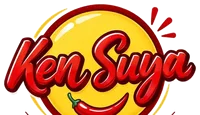
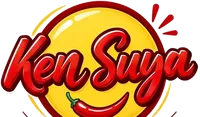
Fix badge crop, add cache-busting, and rename brand to KenSuya
- Re-crop the badge logo from the source art so the full chili
  pepper and circle render without cutting into the tagline text,
  and add a ?v=2 query string so browsers stop serving the old
  cached (and previously mis-cropped) file under the immutable
  asset cache policy.
- Replace "Ken Suya" with "KenSuya" throughout visible copy,
  metadata, structured data, and chat assistant text to match the
  brand's single-word name (asset filenames and the @KenSuya
  handle were already correct and are unchanged).

diff --git a/index.html b/index.html
@@ -5,30 +5,30 @@
 <meta name="viewport" content="width=device-width, initial-scale=1.0" />
 
 <!-- ─── SEO ─── -->
-<title>Ken Suya | Suya Specialists in Birmingham | Order Now</title>
-<meta name="description" content="Ken Suya is Birmingham's suya specialist, serving beef, chicken and lamb suya hand-rolled in our own yaji spice and grilled fresh to order. Party platters, collection and delivery across Birmingham. Call or WhatsApp +44 7960 235758 to order." />
+<title>KenSuya | Suya Specialists in Birmingham | Order Now</title>
+<meta name="description" content="KenSuya is Birmingham's suya specialist, serving beef, chicken and lamb suya hand-rolled in our own yaji spice and grilled fresh to order. Party platters, collection and delivery across Birmingham. Call or WhatsApp +44 7960 235758 to order." />
 <meta name="keywords" content="suya Birmingham, yaji spice, beef suya, chicken suya, lamb suya, suya near me, party platters Birmingham, grilled skewers Birmingham, suya delivery Birmingham, suya catering Birmingham" />
 <meta name="robots" content="index, follow, max-image-preview:large" />
 <meta name="theme-color" content="#FFFFFF" />
-<meta name="author" content="Ken Suya" />
+<meta name="author" content="KenSuya" />
 <link rel="canonical" href="https://www.kensuya.co.uk/" />
 
 <!-- ─── OPEN GRAPH ─── -->
 <meta property="og:type" content="website" />
-<meta property="og:site_name" content="Ken Suya" />
-<meta property="og:title" content="Ken Suya | Suya Specialists in Birmingham | Order Now" />
+<meta property="og:site_name" content="KenSuya" />
+<meta property="og:title" content="KenSuya | Suya Specialists in Birmingham | Order Now" />
 <meta property="og:description" content="Suya that makes your tastebuds dance. Beef, chicken and lamb suya, hand-rolled in our signature yaji spice and grilled fresh to order. Call or WhatsApp +44 7960 235758 for collection or delivery across Birmingham." />
 <meta property="og:url" content="https://www.kensuya.co.uk/" />
 <meta property="og:locale" content="en_GB" />
 <meta property="og:image" content="https://www.kensuya.co.uk/assets/images/og-image.jpg" />
 <meta property="og:image:width" content="1200" />
 <meta property="og:image:height" content="630" />
-<meta property="og:image:alt" content="Ken Suya, suya specialists in Birmingham" />
+<meta property="og:image:alt" content="KenSuya, suya specialists in Birmingham" />
 <meta name="twitter:card" content="summary_large_image" />
-<meta name="twitter:title" content="Ken Suya | Suya Specialists in Birmingham | Order Now" />
+<meta name="twitter:title" content="KenSuya | Suya Specialists in Birmingham | Order Now" />
 <meta name="twitter:description" content="Beef, chicken and lamb suya, hand-rolled in our signature yaji spice and grilled fresh to order. Call or WhatsApp +44 7960 235758 for collection and delivery across Birmingham." />
 <meta name="twitter:image" content="https://www.kensuya.co.uk/assets/images/og-image.jpg" />
-<meta name="twitter:image:alt" content="Ken Suya, suya specialists in Birmingham" />
+<meta name="twitter:image:alt" content="KenSuya, suya specialists in Birmingham" />
 
 <!-- ─── FAVICON ─── -->
 <link rel="icon" type="image/jpeg" sizes="64x64" href="assets/images/favicon-64.jpg" />
@@ -40,7 +40,7 @@
 {
   "@context": "https://schema.org",
   "@type": "FoodEstablishment",
-  "name": "Ken Suya",
+  "name": "KenSuya",
   "slogan": "Cow-towing to your tastes",
   "servesCuisine": ["Grill", "Skewers"],
   "priceRange": "££",
@@ -96,7 +96,7 @@
 {
   "@context": "https://schema.org",
   "@type": "Menu",
-  "name": "Ken Suya Menu",
+  "name": "KenSuya Menu",
   "inLanguage": "en-GB",
   "hasMenuSection": [
     {
@@ -154,12 +154,12 @@
   "mainEntity": [
     {
       "@type": "Question",
-      "name": "How do I order suya from Ken Suya?",
+      "name": "How do I order suya from KenSuya?",
       "acceptedAnswer": { "@type": "Answer", "text": "Message us on WhatsApp or DM @KenSuya on Instagram with what you'd like. We'll confirm price, timing, and whether it's collection or delivery." }
     },
     {
       "@type": "Question",
-      "name": "Does Ken Suya deliver in Birmingham?",
+      "name": "Does KenSuya deliver in Birmingham?",
       "acceptedAnswer": { "@type": "Answer", "text": "Yes, we deliver locally across Birmingham. Let us know your postcode when you order and we'll confirm if you're in range." }
     },
     {
@@ -169,12 +169,12 @@
     },
     {
       "@type": "Question",
-      "name": "Does Ken Suya cater for parties and events?",
+      "name": "Does KenSuya cater for parties and events?",
       "acceptedAnswer": { "@type": "Answer", "text": "Yes, message us the headcount and date on WhatsApp and we'll put together a spread of skewers and sides for your event." }
     },
     {
       "@type": "Question",
-      "name": "Is Ken Suya's meat halal?",
+      "name": "Is KenSuya's meat halal?",
       "acceptedAnswer": { "@type": "Answer", "text": "Message us on WhatsApp or Instagram before ordering and we'll happily confirm sourcing for you." }
     }
   ]
@@ -191,7 +191,7 @@
 
 <a class="skip-link" href="#main">Skip to content</a>
 
-<!-- ═══════════════ SVG SPRITE (functional icons only; the real Ken Suya logo is an image, used unaltered) ═══════════════ -->
+<!-- ═══════════════ SVG SPRITE (functional icons only; the real KenSuya logo is an image, used unaltered) ═══════════════ -->
 <svg width="0" height="0" style="position:absolute" aria-hidden="true">
   <defs>
     <symbol id="icon-flame" viewBox="0 0 24 24">
@@ -232,9 +232,9 @@
 <header class="nav" id="site-nav">
   <div class="scroll-progress" aria-hidden="true"><span id="scroll-progress-bar"></span></div>
   <div class="container nav-inner">
-    <a href="#hero" class="nav-brand" aria-label="Ken Suya Home">
-      <img src="assets/images/ken-suya-badge.webp" alt="Ken Suya" class="brand-mark-img" onerror="this.style.display='none'; this.nextElementSibling.style.display='inline-flex'" />
-      <span class="brand-mark" style="display:none;"><svg width="20" height="20" class="icon-flicker"><use href="#icon-flame"/></svg>Ken Suya</span>
+    <a href="#hero" class="nav-brand" aria-label="KenSuya Home">
+      <img src="assets/images/ken-suya-badge.webp?v=2" alt="KenSuya" class="brand-mark-img" onerror="this.style.display='none'; this.nextElementSibling.style.display='inline-flex'" />
+      <span class="brand-mark" style="display:none;"><svg width="20" height="20" class="icon-flicker"><use href="#icon-flame"/></svg>KenSuya</span>
       <span class="nav-tagline">Cow-towing to your tastes</span>
     </a>
 
@@ -270,8 +270,8 @@
   <div class="mobile-menu-footer">
     <a href="https://wa.me/447960235758" target="_blank" rel="noopener noreferrer" class="btn btn-gold btn-lg">Order Now</a>
     <div class="mobile-social">
-      <a href="https://instagram.com/KenSuya" target="_blank" rel="noopener noreferrer" class="social-icon" aria-label="Ken Suya on Instagram"><svg width="18" height="18"><use href="#icon-insta"/></svg></a>
-      <a href="https://wa.me/447960235758" target="_blank" rel="noopener noreferrer" class="social-icon social-icon--wa" aria-label="Message Ken Suya on WhatsApp"><svg width="18" height="18"><use href="#icon-whatsapp"/></svg></a>
+      <a href="https://instagram.com/KenSuya" target="_blank" rel="noopener noreferrer" class="social-icon" aria-label="KenSuya on Instagram"><svg width="18" height="18"><use href="#icon-insta"/></svg></a>
+      <a href="https://wa.me/447960235758" target="_blank" rel="noopener noreferrer" class="social-icon social-icon--wa" aria-label="Message KenSuya on WhatsApp"><svg width="18" height="18"><use href="#icon-whatsapp"/></svg></a>
     </div>
   </div>
 </div>
@@ -310,10 +310,10 @@
       <div class="hero-visual" aria-hidden="true">
         <div class="hero-flame-glow"></div>
         <div class="hero-badge-plate">
-          <img src="assets/images/ken-suya-logo.webp" alt="Ken Suya logo, a red and gold badge with a chili pepper" class="brand-badge-img" width="900" height="699" onerror="this.style.display='none'; this.nextElementSibling.style.display='flex'" />
+          <img src="assets/images/ken-suya-logo.webp" alt="KenSuya logo, a red and gold badge with a chili pepper" class="brand-badge-img" width="900" height="699" onerror="this.style.display='none'; this.nextElementSibling.style.display='flex'" />
           <div class="brand-badge" aria-hidden="true" style="display:none;">
             <span class="brand-badge-shine"></span>
-            <span class="brand-badge-text">Ken Suya</span>
+            <span class="brand-badge-text">KenSuya</span>
             <svg width="42" height="32" class="brand-badge-icon"><use href="#icon-chili-solid"/></svg>
           </div>
         </div>
@@ -325,7 +325,7 @@
   </section>
 
   <!-- ═══════════════ USP STRIP ═══════════════ -->
-  <div class="usp-strip" aria-label="Why Ken Suya">
+  <div class="usp-strip" aria-label="Why KenSuya">
     <div class="usp-track">
       <div class="usp-item"><span class="icon"><svg width="22" height="22"><use href="#icon-pepper"/></svg></span><span>Hand-Rolled In Yaji Spice</span></div>
       <div class="usp-item"><span class="icon"><svg width="22" height="22"><use href="#icon-flame"/></svg></span><span>Grilled Fresh To Order</span></div>
@@ -494,13 +494,13 @@
         <span class="eyebrow reveal">Our Story</span>
         <h2 class="section-title reveal">Built On Yaji,<br>Not Shortcuts.</h2>
         <div class="reveal reveal-d1">
-          <p>Suya isn't complicated. It's a handful of ingredients done properly: thin-cut meat, roasted groundnut, the right ratio of heat to depth and a hot grill. Ken Suya exists because too many places cut corners on all four.</p>
+          <p>Suya isn't complicated. It's a handful of ingredients done properly: thin-cut meat, roasted groundnut, the right ratio of heat to depth and a hot grill. KenSuya exists because too many places cut corners on all four.</p>
           <p>We roast and grind our own yaji in-house, in small batches, so it's always fresh, not sitting in a tub for weeks losing its punch. Every skewer gets rolled by hand, not dunked.</p>
           <p>We built this to taste like the suya spot you'd queue for back home. If it's quick, it's not suya, so we don't rush it. We just get faster at doing it right.</p>
         </div>
         <blockquote class="reveal reveal-d2" style="margin-top:1.75rem; padding-left:1.25rem; border-left:3px solid var(--red); font-family: var(--font-display); font-size:1.15rem; line-height:1.4;">
           "Suya spice is not a shortcut. It's the whole point."
-          <cite style="display:block; margin-top:0.6rem; font-family:var(--font-body); font-size:0.75rem; font-weight:700; letter-spacing:0.05em; text-transform:uppercase; color:var(--ink-soft); font-style:normal;">Ken Suya</cite>
+          <cite style="display:block; margin-top:0.6rem; font-family:var(--font-body); font-size:0.75rem; font-weight:700; letter-spacing:0.05em; text-transform:uppercase; color:var(--ink-soft); font-style:normal;">KenSuya</cite>
         </blockquote>
       </div>
 
@@ -517,7 +517,7 @@
     <div class="container" style="margin-top:3rem;">
       <div class="reviews-track reveal" style="grid-template-columns:repeat(2,1fr);">
         <div class="photo-block ratio-square" style="margin:0;">
-          <img src="assets/images/chili-icon.webp" alt="Ken Suya chili icon" loading="lazy" onerror="this.style.display='none'; this.parentElement.classList.add('photo-fallback')" />
+          <img src="assets/images/chili-icon.webp" alt="KenSuya chili icon" loading="lazy" onerror="this.style.display='none'; this.parentElement.classList.add('photo-fallback')" />
           <span class="photo-caption">The Heat</span>
           <span class="photo-icon" aria-hidden="true"><svg width="40" height="40"><use href="#icon-chili-solid"/></svg></span>
         </div>
@@ -628,14 +628,14 @@
       <p class="section-sub reveal" style="margin-bottom:3rem;">Birmingham, UK. Message us to order and we'll sort collection or delivery.</p>
 
       <div class="loc-grid">
-        <div class="loc-map reveal" role="img" aria-label="Stylised map showing Ken Suya's location in Birmingham">
+        <div class="loc-map reveal" role="img" aria-label="Stylised map showing KenSuya's location in Birmingham">
           <div class="loc-map-grid" aria-hidden="true"></div>
           <div class="loc-map-glow" aria-hidden="true"></div>
           <div class="loc-pin" aria-hidden="true">
             <div class="loc-pin-dot"><svg width="22" height="22" fill="none" stroke="#0F3D1B" stroke-width="2" class="icon-flicker"><use href="#icon-flame"/></svg></div>
           </div>
           <div class="loc-map-label">
-            <span class="name">Ken Suya</span>
+            <span class="name">KenSuya</span>
             <a href="https://www.google.com/maps/search/?api=1&query=Unit+4+Greenfield+Business+Park+Birmingham+B11+2AA" target="_blank" rel="noopener noreferrer">Get Directions <svg width="14" height="14"><use href="#icon-arrow"/></svg></a>
           </div>
         </div>
@@ -658,8 +658,8 @@
             <h3><svg width="18" height="18"><use href="#icon-whatsapp"/></svg> Get In Touch</h3>
             <p><a class="link" href="tel:+447960235758">Call: +44 7960 235758</a><br><a class="link" href="https://wa.me/447960235758" target="_blank" rel="noopener noreferrer">WhatsApp: +44 7960 235758</a><br><a class="link" href="https://instagram.com/KenSuya" target="_blank" rel="noopener noreferrer">Instagram: @KenSuya</a></p>
             <div class="loc-social">
-              <a href="https://instagram.com/KenSuya" target="_blank" rel="noopener noreferrer" class="social-icon" aria-label="Ken Suya on Instagram"><svg width="18" height="18"><use href="#icon-insta"/></svg></a>
-              <a href="https://wa.me/447960235758" target="_blank" rel="noopener noreferrer" class="social-icon social-icon--wa" aria-label="Message Ken Suya on WhatsApp"><svg width="18" height="18"><use href="#icon-whatsapp"/></svg></a>
+              <a href="https://instagram.com/KenSuya" target="_blank" rel="noopener noreferrer" class="social-icon" aria-label="KenSuya on Instagram"><svg width="18" height="18"><use href="#icon-insta"/></svg></a>
+              <a href="https://wa.me/447960235758" target="_blank" rel="noopener noreferrer" class="social-icon social-icon--wa" aria-label="Message KenSuya on WhatsApp"><svg width="18" height="18"><use href="#icon-whatsapp"/></svg></a>
             </div>
           </div>
 
@@ -739,10 +739,10 @@
     <div class="final-cta-bg" aria-hidden="true"></div>
     <div class="container final-cta-inner">
       <div class="brand-badge--small-wrap">
-        <img src="assets/images/ken-suya-badge.webp" alt="Ken Suya logo" class="brand-badge-img brand-badge-img--small" width="200" height="115" onerror="this.style.display='none'; this.nextElementSibling.style.display='flex'" />
+        <img src="assets/images/ken-suya-badge.webp?v=2" alt="KenSuya logo" class="brand-badge-img brand-badge-img--small" width="200" height="117" onerror="this.style.display='none'; this.nextElementSibling.style.display='flex'" />
         <div class="brand-badge brand-badge--small" aria-hidden="true" style="display:none;">
           <span class="brand-badge-shine"></span>
-          <span class="brand-badge-text">Ken Suya</span>
+          <span class="brand-badge-text">KenSuya</span>
           <svg width="26" height="20" class="brand-badge-icon"><use href="#icon-chili-solid"/></svg>
         </div>
       </div>
@@ -752,8 +752,8 @@
         <a href="#menu" class="btn btn-outline btn-lg">View Menu</a>
       </div>
       <div class="final-social reveal reveal-d2">
-        <a href="https://instagram.com/KenSuya" target="_blank" rel="noopener noreferrer" class="social-icon" aria-label="Ken Suya on Instagram"><svg width="18" height="18"><use href="#icon-insta"/></svg></a>
-        <a href="https://wa.me/447960235758" target="_blank" rel="noopener noreferrer" class="social-icon social-icon--wa" aria-label="Message Ken Suya on WhatsApp"><svg width="18" height="18"><use href="#icon-whatsapp"/></svg></a>
+        <a href="https://instagram.com/KenSuya" target="_blank" rel="noopener noreferrer" class="social-icon" aria-label="KenSuya on Instagram"><svg width="18" height="18"><use href="#icon-insta"/></svg></a>
+        <a href="https://wa.me/447960235758" target="_blank" rel="noopener noreferrer" class="social-icon social-icon--wa" aria-label="Message KenSuya on WhatsApp"><svg width="18" height="18"><use href="#icon-whatsapp"/></svg></a>
       </div>
     </div>
   </section>
@@ -766,14 +766,14 @@
     <div class="footer-grid">
       <div class="footer-brand">
         <div class="footer-brand-row">
-          <img src="assets/images/ken-suya-badge.webp" alt="Ken Suya" class="brand-mark-img" onerror="this.style.display='none'; this.nextElementSibling.style.display='inline-flex'" />
-          <span class="brand-mark" style="display:none;"><svg width="18" height="18" class="icon-flicker"><use href="#icon-flame"/></svg>Ken Suya</span>
+          <img src="assets/images/ken-suya-badge.webp?v=2" alt="KenSuya" class="brand-mark-img" onerror="this.style.display='none'; this.nextElementSibling.style.display='inline-flex'" />
+          <span class="brand-mark" style="display:none;"><svg width="18" height="18" class="icon-flicker"><use href="#icon-flame"/></svg>KenSuya</span>
           <span>Cow-towing to your tastes</span>
         </div>
         <p>Hand-rolled suya, grilled fresh and delivered across Birmingham. Beef, chicken, lamb, no shortcuts ever.</p>
         <div class="loc-social">
-          <a href="https://instagram.com/KenSuya" target="_blank" rel="noopener noreferrer" class="social-icon" aria-label="Ken Suya on Instagram"><svg width="18" height="18"><use href="#icon-insta"/></svg></a>
-          <a href="https://wa.me/447960235758" target="_blank" rel="noopener noreferrer" class="social-icon social-icon--wa" aria-label="Message Ken Suya on WhatsApp"><svg width="18" height="18"><use href="#icon-whatsapp"/></svg></a>
+          <a href="https://instagram.com/KenSuya" target="_blank" rel="noopener noreferrer" class="social-icon" aria-label="KenSuya on Instagram"><svg width="18" height="18"><use href="#icon-insta"/></svg></a>
+          <a href="https://wa.me/447960235758" target="_blank" rel="noopener noreferrer" class="social-icon social-icon--wa" aria-label="Message KenSuya on WhatsApp"><svg width="18" height="18"><use href="#icon-whatsapp"/></svg></a>
         </div>
       </div>
 
@@ -804,7 +804,7 @@
     </div>
 
     <div class="footer-bottom">
-      <p>&copy; <span id="yr"></span> Ken Suya. All rights reserved.</p>
+      <p>&copy; <span id="yr"></span> KenSuya. All rights reserved.</p>
       <div class="footer-legal">
         <a href="#">Privacy Policy</a>
         <a href="#">Terms</a>
@@ -817,7 +817,7 @@
 <!-- ═══════════════ STICKY MOBILE CTA ═══════════════ -->
 <div id="sticky-cta" aria-hidden="true">
   <div class="sticky-cta-text">
-    <strong>Ken Suya</strong>
+    <strong>KenSuya</strong>
     <span>Order via WhatsApp</span>
   </div>
   <a href="https://wa.me/447960235758" target="_blank" rel="noopener noreferrer" class="btn btn-gold">Order Now</a>
@@ -830,10 +830,10 @@
 
 <!-- ═══════════════ CHAT ASSISTANT ═══════════════ -->
 <div id="chat-widget">
-  <div id="chat-panel" role="dialog" aria-label="Ken Suya chat assistant" aria-hidden="true">
+  <div id="chat-panel" role="dialog" aria-label="KenSuya chat assistant" aria-hidden="true">
     <div class="chat-header">
       <div class="chat-header-info">
-        <span class="chat-header-title"><svg width="16" height="16"><use href="#icon-flame"/></svg> Ken Suya Assistant</span>
+        <span class="chat-header-title"><svg width="16" height="16"><use href="#icon-flame"/></svg> KenSuya Assistant</span>
         <span class="chat-header-sub">Ask about the menu, hours or delivery</span>
       </div>
       <button type="button" id="chat-close" aria-label="Close chat">
@@ -850,7 +850,7 @@
     </form>
   </div>
 
-  <button id="chat-launcher" type="button" aria-expanded="false" aria-controls="chat-panel" aria-label="Chat with Ken Suya">
+  <button id="chat-launcher" type="button" aria-expanded="false" aria-controls="chat-panel" aria-label="Chat with KenSuya">
     <svg width="24" height="24" viewBox="0 0 24 24" fill="none" stroke="currentColor" stroke-width="2" stroke-linecap="round" stroke-linejoin="round"><path d="M21 11.5a8.38 8.38 0 0 1-.9 3.8 8.5 8.5 0 0 1-7.6 4.7 8.38 8.38 0 0 1-3.8-.9L3 21l1.9-5.7a8.38 8.38 0 0 1-.9-3.8 8.5 8.5 0 0 1 4.7-7.6 8.38 8.38 0 0 1 3.8-.9h.5a8.48 8.48 0 0 1 8 8v.5z"/></svg>
     <span class="chat-launcher-dot" aria-hidden="true"></span>
   </button>

diff --git a/assets/script.js b/assets/script.js
@@ -239,7 +239,7 @@
   const waButton = label => `<a class="chat-wa-btn" href="${WA_LINK}" target="_blank" rel="noopener noreferrer"><svg width="14" height="14" viewBox="0 0 24 24"><use href="#icon-whatsapp"/></svg>${label}</a>`;
 
   const CHAT_KB = [
-    { keywords: ['hi', 'hello', 'hey', 'yo', 'sup'], reply: `Hey! I'm the Ken Suya assistant. Ask me about the menu, prices, hours, delivery, or say "order" to jump straight to WhatsApp.` },
+    { keywords: ['hi', 'hello', 'hey', 'yo', 'sup'], reply: `Hey! I'm the KenSuya assistant. Ask me about the menu, prices, hours, delivery, or say "order" to jump straight to WhatsApp.` },
     { keywords: ['menu', 'food', 'items', 'options'], reply: `Here's what's on: <br>• Beef Suya: £12.00<br>• Lamb: £10.00<br>• Chopped Chicken: £10.00<br>• Chicken Skewers: 4 for £10.00<br>• Plantain: £2.50 per portion<br>• Corn: £3.00<br>All hand-rolled in our own yaji spice and grilled fresh to order.` },
     { keywords: ['beef'], reply: `Beef Suya (£12.00) is our signature. Thin-sliced beef, hand-rolled in yaji spice and grilled fast over an open flame.` },
     { keywords: ['lamb'], reply: `Lamb (£10.00) is tender lamb, double-dusted in yaji, char-grilled till the edges catch. A fan favourite.` },
@@ -341,7 +341,7 @@
       panel.setAttribute('aria-hidden', 'false');
       if (!started) {
         started = true;
-        addMessage(`Hey! I'm the Ken Suya assistant. Ask me about the menu, hours, delivery, or say "order" to jump straight to WhatsApp.`, 'bot');
+        addMessage(`Hey! I'm the KenSuya assistant. Ask me about the menu, hours, delivery, or say "order" to jump straight to WhatsApp.`, 'bot');
         renderSuggestions(CHAT_SUGGESTIONS);
       }
       setTimeout(() => input.focus(), 250);
